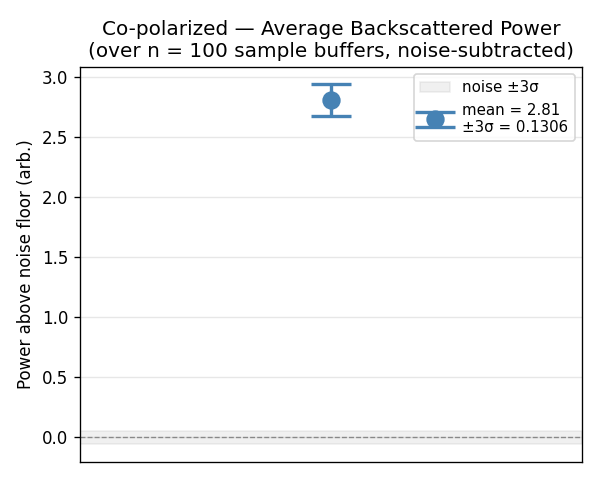
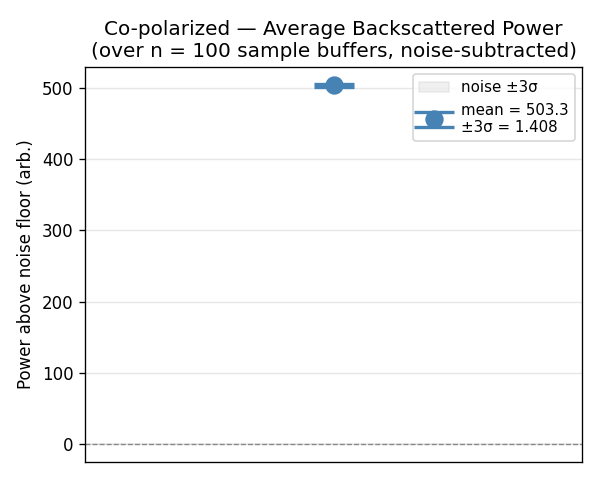
new scattering page

diff --git a/GUI/main.py b/GUI/main.py
@@ -35,7 +35,7 @@ import asyncio
 from AF_Calc import runAF_Calc
 from READ_S2P import get_phase_at_freq
 from create_default_rx_grid import DEFAULT_RX_GRID
-from PLUTO import get_energy,get_mean_dev, get_energy_fast,discard_buffer, tx, stop_tx, moving_average
+from PLUTO import get_energy,get_mean_dev, get_energy_fast,discard_buffer, tx, stop_tx, moving_average, get_dBFS
 import plotly.graph_objects as go
 MEDIA_DIR = os.path.join(os.path.dirname(__file__), 'media')
 #global serial handler
@@ -256,7 +256,8 @@ def main_page():
     ('/manual', 'Manual_Phase_Control.png'), 
     ('/oam', 'OAM_Control1.png'),
     ('/hermite', 'Hermite_Control1.png'),
-    ('/beam', 'Beam_Control.png')
+    ('/beam', 'Beam_Control.png'),
+    ('/scattering', 'Scattering_Experiment.png')
     ]
 
     with ui.column().classes('w-full items-center'):
@@ -1518,8 +1519,118 @@ def calibrate():
                 on_change=lambda e, i=i: update_phase(i, e.value),
             ).props("outlined dense step=0.1").style("width:100px;")
             phase_inputs.append(num)
-
 #----END Calibration Page
+
+#----Scattering PAGE-----
+@ui.page('/scattering')
+def scattering():
+
+    ui.button('⬅ Back', on_click=nav_back)
+    with ui.column().classes('w-full items-center  gap-6 mt-6'):
+        # Header
+        ui.label('Scattering Mode Selection') \
+            .classes('text-2xl font-bold text-center')
+
+        # Instructions
+        ui.label('Attach provided 4x4 antenna array port 1 to top left ascending going down and to the right').classes('text-base text-gray-600 text-center')
+        with ui.row().classes('w-full justify-center items-center'):
+            ui.image('media/Default_Array.png').style('width: 35%;')
+            ui.image('media/Default_Array2.png').style('width: 35%;')
+
+    oam_images = [
+    ('-3', 'oam--3.png'),
+    ('-2', 'oam-2.png'), 
+    ('-1', 'oam-1.png'),
+    ('1', 'oam1.png'),
+    ('2', 'oam2.png'),
+    ('3', 'oam3.png'),
+    ('0', 'plane_wave.png')
+    ]
+
+    hermite_images = [
+    ('01', '01.png'), 
+    ('10', '10.png'),
+    ('11', '11.png'),
+    ]
+
+    image_elements = {} # store references to each image ui element
+
+    def select_oam_image(t):
+        '''add red box around selected image and remove from old one'''
+        global selected
+        if selected is not None and selected in image_elements:
+            image_elements[selected].classes(remove='ring-4 ring-red-500')
+        image_elements[t].classes('ring-4 ring-red-500')
+        selected = t
+        oam_mode(t)
+
+    def select_hermite_image(t):
+        '''add red box around selected image and remove from old one'''
+        global selected
+        if selected is not None and selected in image_elements:
+            image_elements[selected].classes(remove='ring-4 ring-red-500')
+        image_elements[t].classes('ring-4 ring-red-500')
+        selected = t
+        hermite_mode(t)
+
+    ui.label('OAM Modes').classes('text-xl font-bold text-center mt-4')
+    with ui.row().classes('w-full justify-center items-center gap-4'):
+        for target, filename in oam_images:
+            img = ui.image(f'media/{filename}')\
+                .classes('w-1/5 cursor-pointer hover:scale-105 transition-transform duration-200') \
+                .on('click', lambda _, t=target: select_oam_image(t))
+            image_elements[target] = img #store reference
+
+    ui.label('Hermite Modes').classes('text-xl font-bold text-center mt-4')
+    with ui.row().classes('w-full justify-center items-center gap-4'):
+        for target, filename in hermite_images:
+            img = ui.image(f'media/{filename}')\
+                .classes('w-1/5 cursor-pointer hover:scale-105 transition-transform duration-200') \
+                .on('click', lambda _, t=target: select_hermite_image(t))
+            image_elements[target] = img #store reference
+
+    # ---- Noise Measurement (dBFS) ----
+    ui.label('Noise Measurement').classes('text-2xl font-bold text-center mt-6')
+    ui.label('Press the button below to record and report the receiver noise level in dBFS.')\
+        .classes('text-base text-gray-600 text-center')
+
+    noise_label = ui.label('').classes('text-xl font-bold text-center mt-2')
+
+    def record_noise_dbfs():
+        try:
+            dbfs = get_dBFS()
+        except Exception as e:
+            ui.notify(f'Failed to measure noise: {e}', color='red')
+            return
+        noise_label.set_text(f'Noise Level: {dbfs:.2f} dBFS')
+        ui.notify('Noise measurement complete', type='positive')
+
+    ui.button('Record Noise (dBFS)', on_click=record_noise_dbfs)
+    
+    # ---- TX Noise Measurement (dBFS while transmitting) ----
+    ui.label('Transmit Power Measurement').classes('text-2xl font-bold text-center mt-6')
+    ui.label('Press the button below to transmit and record the received power level in dBFS.')\
+        .classes('text-base text-gray-600 text-center')
+
+    tx_dbfs_label = ui.label('').classes('text-xl font-bold text-center mt-2')
+
+    def record_tx_dbfs():
+        try:
+            tx()
+            for _ in range(10):
+                discard_buffer()
+            dbfs = get_dBFS()
+        except Exception as e:
+            ui.notify(f'Failed to measure TX power: {e}', color='red')
+            return
+        finally:
+            stop_tx()
+        tx_dbfs_label.set_text(f'TX Power Level: {dbfs:.2f} dBFS')
+        ui.notify('TX power measurement complete', type='positive')
+
+    ui.button('Record TX Power (dBFS)', on_click=record_tx_dbfs)
+#----END Scattering PAGE
+
 
 # ---- RUN APP ---
 ui.run(title="Phase Network Control Dashboard",reload=False)

diff --git a/GUI/PLUTO.py b/GUI/PLUTO.py
@@ -47,6 +47,14 @@ def stop_tx():
 def discard_buffer():
         sdr.rx()
 
+def get_dBFS():
+    '''
+    s is a buffer of complex samples we find the rms value of this buffer and scale it relative to full scale 
+    '''
+    s = sdr.rx()
+    rms = np.sqrt(np.mean(np.abs(s)**2))
+    return 20*np.log10(rms/2**14)  # 12-bit signed ADC packaged in a 16 bit container
+
 def get_energy() -> float:
     """
     get the tones strength

diff --git a/GUI/config.py b/GUI/config.py
@@ -28,7 +28,7 @@ PHI_RANGE = np.linspace(0, 360, num_phi, endpoint=False)
 #PLUTO config
 BASE_BAND = 100e3
 SAMP_RATE = 5e6  # Hz e.g. 5 MHz
-TX_GAIN = -1 # 0 is the maximum transmit power -90 is 90 dB attenuation from max
+TX_GAIN = 0 # 0 is the maximum transmit power -90 is 90 dB attenuation from max
 RX_GAIN =30 #adjust as needed 0-74
 
 #4 ms to fill buffer
